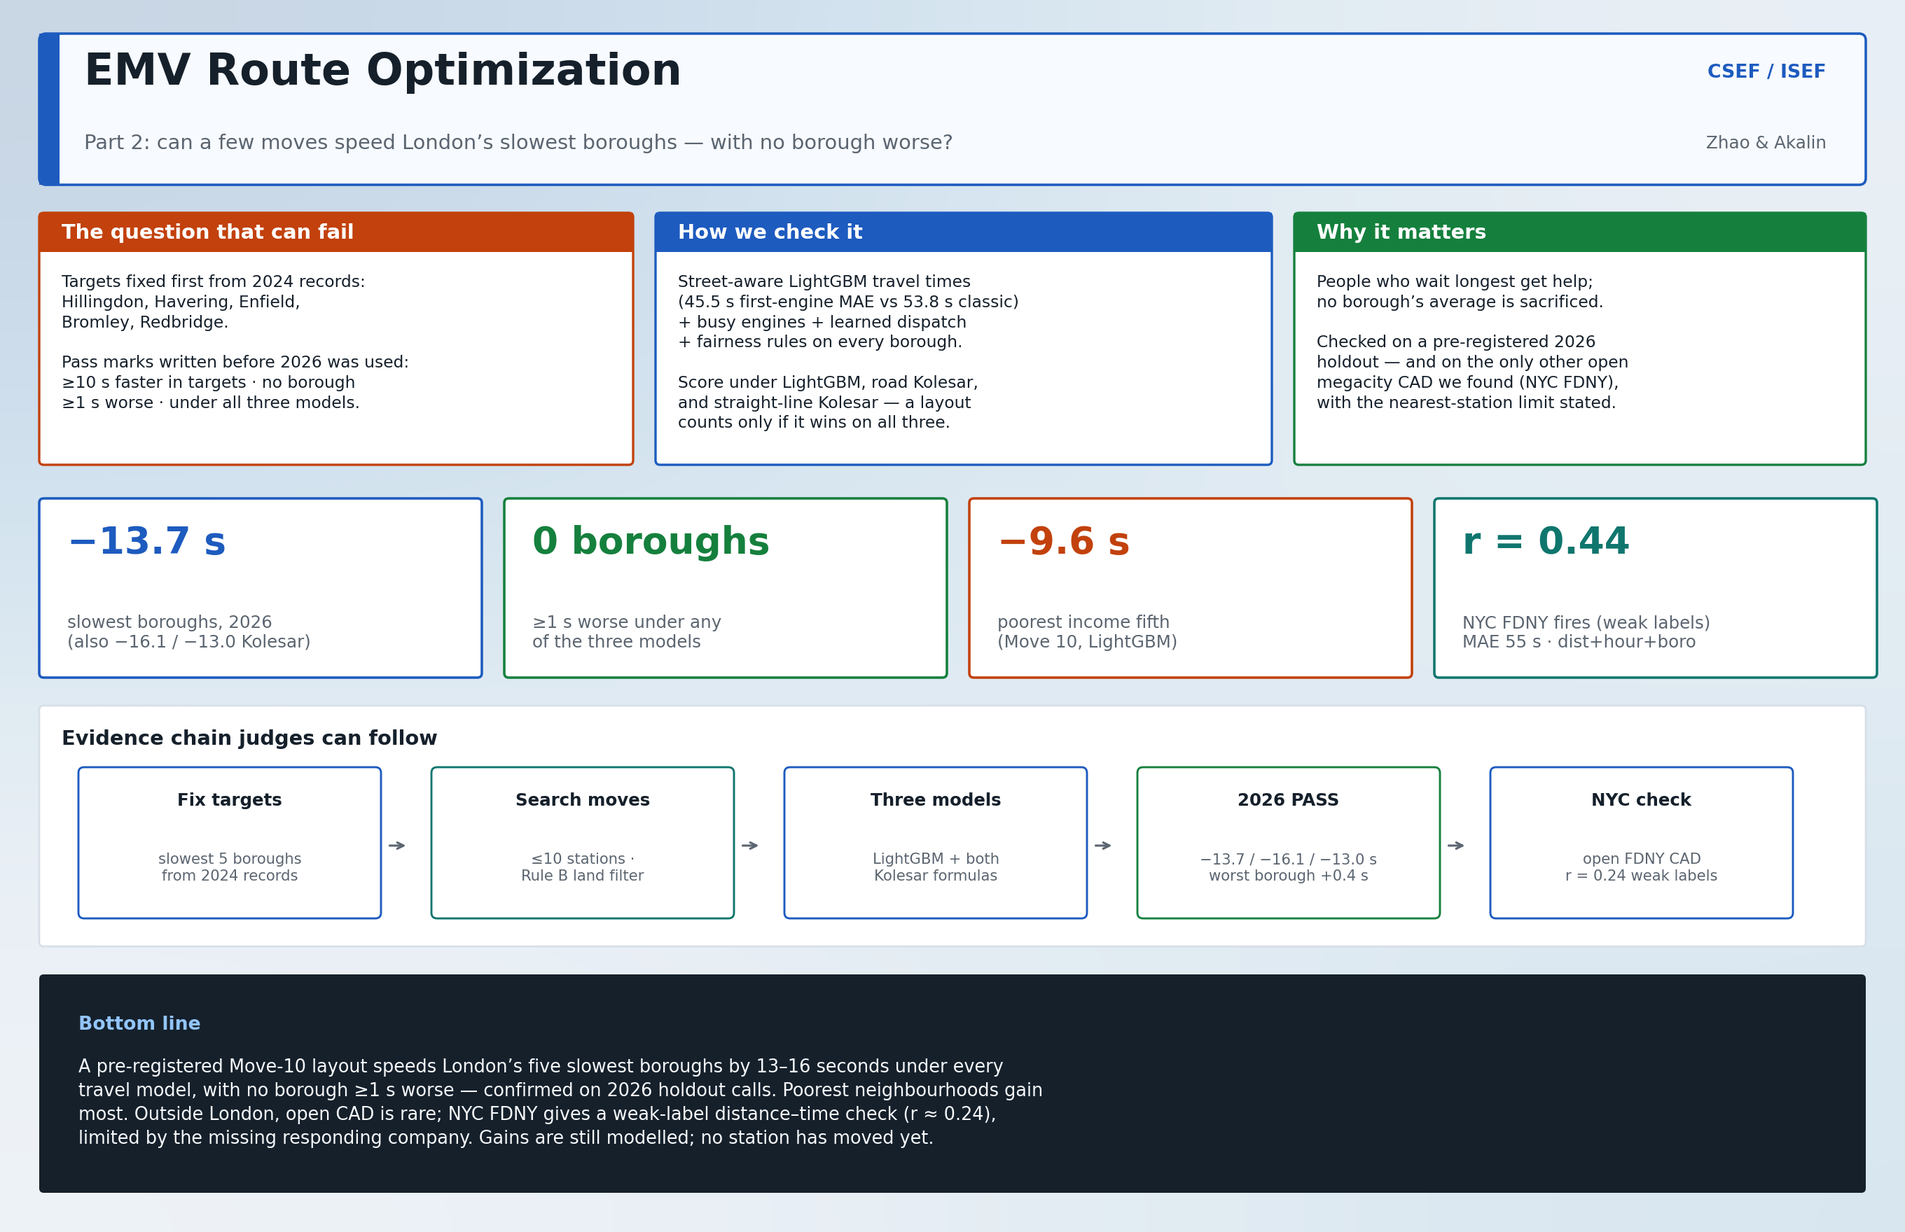
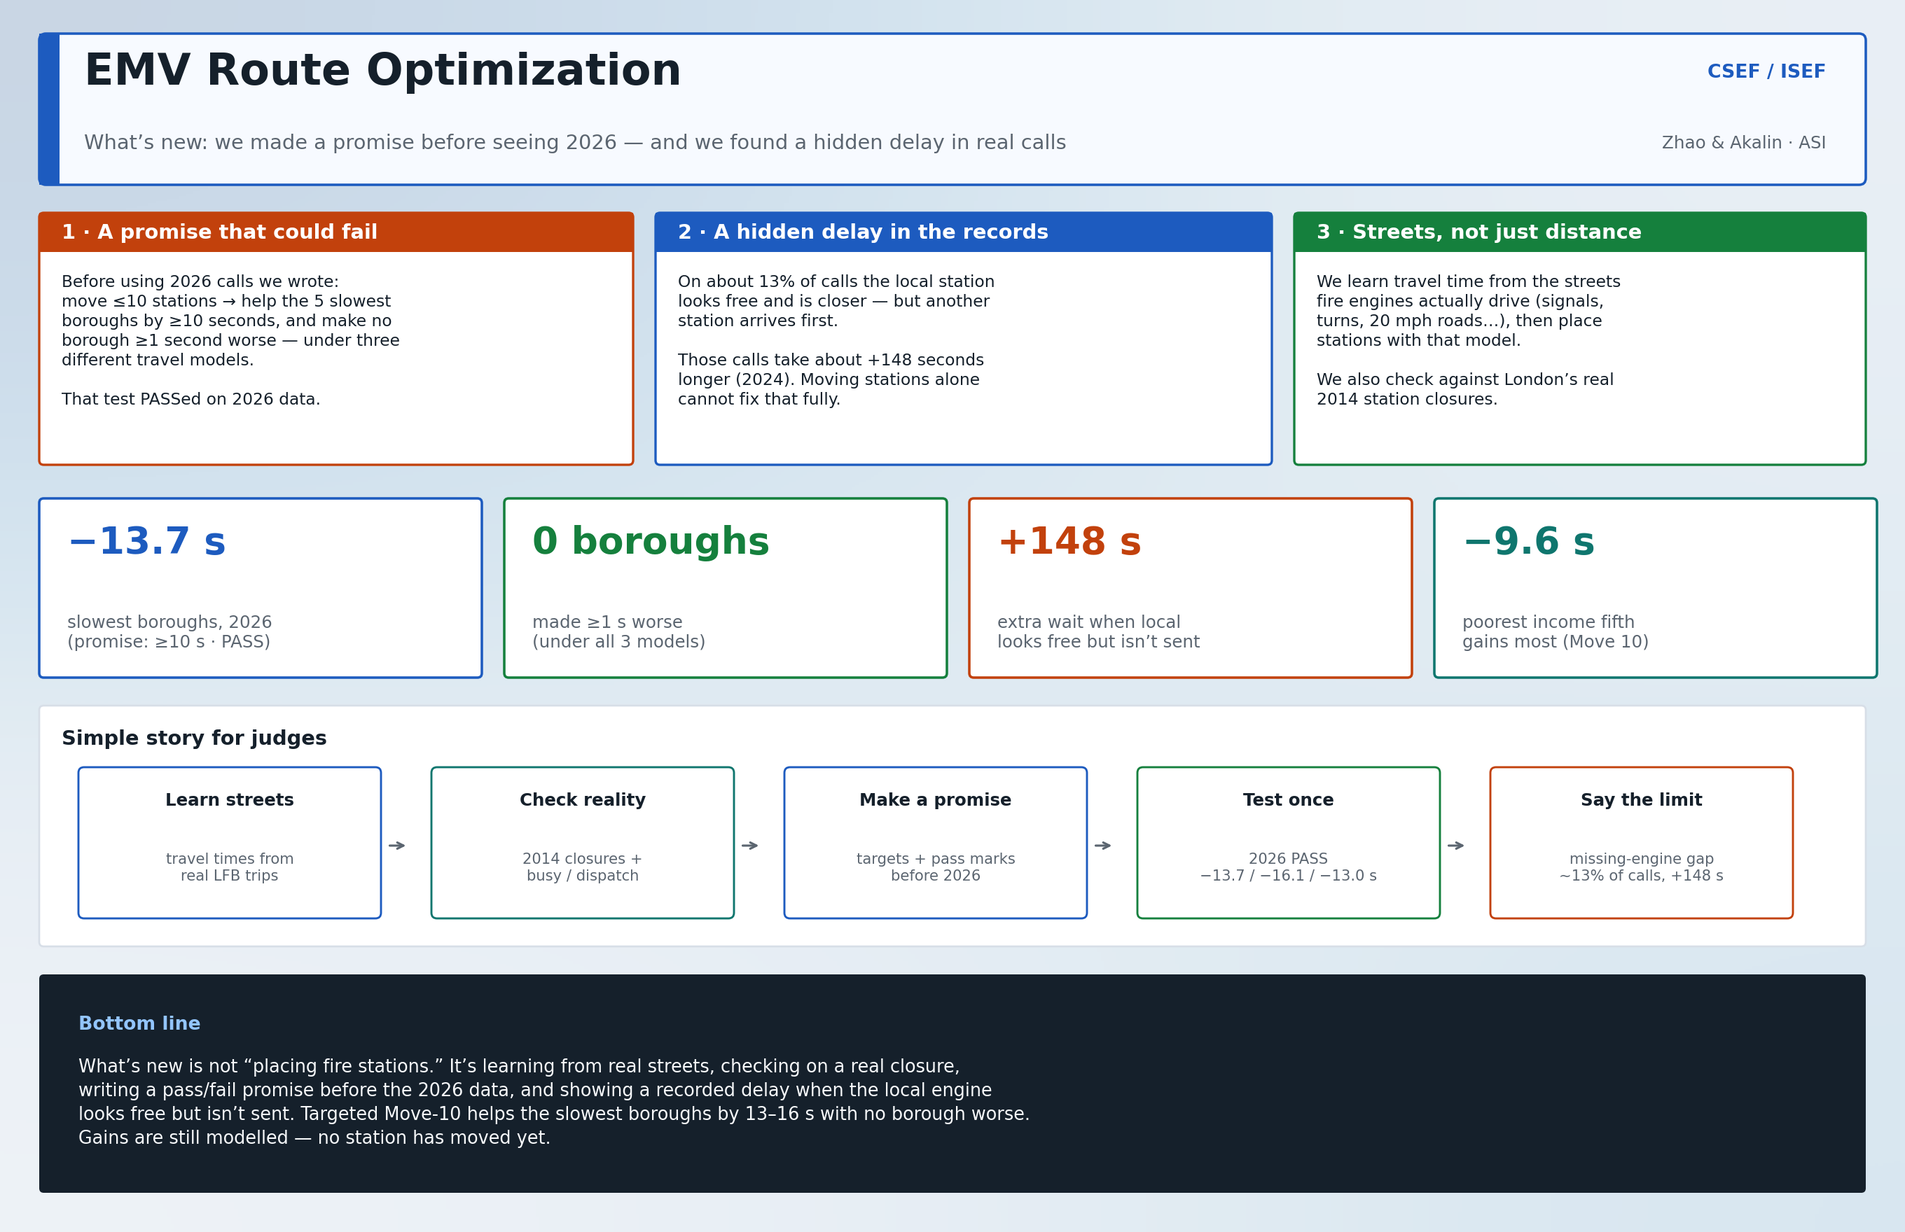
more novel

diff --git a/scripts/build_project_infographic.py b/scripts/build_project_infographic.py
@@ -1,10 +1,14 @@
 #!/usr/bin/env python3
-"""Project significance infographic for the ISEF final-figures pack.
+"""Project significance + novelty infographic for the ISEF final-figures pack.
 
-Leads with Part 2 (slowest boroughs faster, none worse — 2026 PASS), equity,
-and the NYC FDNY weak-label external check. Method MAE stays as support.
+Leads with what is easy to defend as new:
+  1) a promise written before 2026 that then PASSed
+  2) the recorded “missing local engine” delay
+Part 2 savings and equity stay as proof. NYC is a small external note.
 
 Writes ``data/figures/final/14_project_significance.png``.
+Also writes ``data/figures/final/15_what_is_new.png`` (plain-English novelty).
+
 Does not modify figures 01–10.
 
 Run:  PYTHONPATH=src .venv/bin/python scripts/build_project_infographic.py
@@ -12,7 +16,6 @@ Run:  PYTHONPATH=src .venv/bin/python scripts/build_project_infographic.py
 
 from __future__ import annotations
 
-import json
 from pathlib import Path
 
 import matplotlib
@@ -23,7 +26,7 @@ from matplotlib.patches import FancyBboxPatch, Rectangle  # noqa: E402
 
 ROOT = Path(__file__).resolve().parents[1]
 OUT = ROOT / "data" / "figures" / "final" / "14_project_significance.png"
-NYC = ROOT / "data" / "figures" / "validation" / "nyc_fdny" / "summary.json"
+OUT_NEW = ROOT / "data" / "figures" / "final" / "15_what_is_new.png"
 
 INK = "#15202b"
 MUTED = "#5b6570"
@@ -55,17 +58,7 @@ def _bar(ax, x, y, w, h, color):
     ax.add_patch(Rectangle((x, y), w, h, facecolor=color, edgecolor="none", clip_on=False))
 
 
-def _nyc_tile() -> tuple[str, str]:
-    if NYC.exists():
-        h = json.loads(NYC.read_text()).get("headline") or {}
-        mae = h.get("nyc_refit_mae_s")
-        corr = h.get("nyc_refit_corr")
-        if mae is not None and corr is not None:
-            return (f"r = {corr:.2f}", f"NYC FDNY fires (weak labels)\nMAE {mae:.0f} s · dist+hour+boro")
-    return ("External", "NYC FDNY open CAD\nweak-label check")
-
-
-def main() -> int:
+def build_significance() -> None:
     fig = plt.figure(figsize=(17, 11), dpi=160, facecolor=BG)
     ax = fig.add_axes([0, 0, 1, 1])
     ax.set_xlim(0, 17)
@@ -84,95 +77,84 @@ def main() -> int:
         zorder=0,
     )
 
-    # Header
     _panel(ax, 0.35, 9.35, 16.3, 1.35, ec=BLUE, fc="#f7faff", lw=1.6, rs=0.06)
     _bar(ax, 0.35, 9.35, 0.18, 1.35, BLUE)
-    ax.text(
-        0.75,
-        10.35,
-        "EMV Route Optimization",
-        fontsize=28,
-        fontweight="bold",
-        color=INK,
-        va="center",
-    )
+    ax.text(0.75, 10.35, "EMV Route Optimization", fontsize=28, fontweight="bold", color=INK, va="center")
     ax.text(
         0.75,
         9.72,
-        "Part 2: can a few moves speed London’s slowest boroughs — with no borough worse?",
+        "What’s new: we made a promise before seeing 2026 — and we found a hidden delay in real calls",
         fontsize=13,
         color=MUTED,
         va="center",
     )
     ax.text(16.3, 10.35, "CSEF / ISEF", fontsize=12, fontweight="bold", color=BLUE, ha="right", va="center")
-    ax.text(16.3, 9.72, "Zhao & Akalin", fontsize=11, color=MUTED, ha="right", va="center")
+    ax.text(16.3, 9.72, "Zhao & Akalin · ASI", fontsize=11, color=MUTED, ha="right", va="center")
 
-    # Three story panels
+    # Three novelty panels (plain English)
     _panel(ax, 0.35, 6.85, 5.3, 2.25, ec=ORANGE, lw=1.5)
     _bar(ax, 0.35, 8.75, 5.3, 0.35, ORANGE)
-    ax.text(0.55, 8.92, "The question that can fail", fontsize=13, fontweight="bold", color="white", va="center")
+    ax.text(0.55, 8.92, "1 · A promise that could fail", fontsize=13, fontweight="bold", color="white", va="center")
     ax.text(
         0.55,
         8.55,
-        "Targets fixed first from 2024 records:\n"
-        "Hillingdon, Havering, Enfield,\n"
-        "Bromley, Redbridge.\n"
+        "Before using 2026 calls we wrote:\n"
+        "move ≤10 stations → help the 5 slowest\n"
+        "boroughs by ≥10 seconds, and make no\n"
+        "borough ≥1 second worse — under three\n"
+        "different travel models.\n"
         "\n"
-        "Pass marks written before 2026 was used:\n"
-        "≥10 s faster in targets · no borough\n"
-        "≥1 s worse · under all three models.",
+        "That test PASSed on 2026 data.",
         fontsize=10.5,
         color=INK,
         va="top",
-        linespacing=1.32,
+        linespacing=1.28,
     )
 
     _panel(ax, 5.85, 6.85, 5.5, 2.25, ec=BLUE, lw=1.5)
     _bar(ax, 5.85, 8.75, 5.5, 0.35, BLUE)
-    ax.text(6.05, 8.92, "How we check it", fontsize=13, fontweight="bold", color="white", va="center")
+    ax.text(6.05, 8.92, "2 · A hidden delay in the records", fontsize=13, fontweight="bold", color="white", va="center")
     ax.text(
         6.05,
         8.55,
-        "Street-aware LightGBM travel times\n"
-        "(45.5 s first-engine MAE vs 53.8 s classic)\n"
-        "+ busy engines + learned dispatch\n"
-        "+ fairness rules on every borough.\n"
+        "On about 13% of calls the local station\n"
+        "looks free and is closer — but another\n"
+        "station arrives first.\n"
         "\n"
-        "Score under LightGBM, road Kolesar,\n"
-        "and straight-line Kolesar — a layout\n"
-        "counts only if it wins on all three.",
+        "Those calls take about +148 seconds\n"
+        "longer (2024). Moving stations alone\n"
+        "cannot fix that fully.",
         fontsize=10.5,
         color=INK,
         va="top",
-        linespacing=1.32,
+        linespacing=1.28,
     )
 
     _panel(ax, 11.55, 6.85, 5.1, 2.25, ec=GREEN, lw=1.5)
     _bar(ax, 11.55, 8.75, 5.1, 0.35, GREEN)
-    ax.text(11.75, 8.92, "Why it matters", fontsize=13, fontweight="bold", color="white", va="center")
+    ax.text(11.75, 8.92, "3 · Streets, not just distance", fontsize=13, fontweight="bold", color="white", va="center")
     ax.text(
         11.75,
         8.55,
-        "People who wait longest get help;\n"
-        "no borough’s average is sacrificed.\n"
+        "We learn travel time from the streets\n"
+        "fire engines actually drive (signals,\n"
+        "turns, 20 mph roads…), then place\n"
+        "stations with that model.\n"
         "\n"
-        "Checked on a pre-registered 2026\n"
-        "holdout — and on the only other open\n"
-        "megacity CAD we found (NYC FDNY),\n"
-        "with the nearest-station limit stated.",
+        "We also check against London’s real\n"
+        "2014 station closures.",
         fontsize=10.5,
         color=INK,
         va="top",
-        linespacing=1.32,
+        linespacing=1.28,
     )
 
-    # Metric strip — Part 2 first
-    nyc_label, nyc_sub = _nyc_tile()
+    # Metric strip — promise result + gap + equity
     metrics = [
-        ("−13.7 s", "slowest boroughs, 2026\n(also −16.1 / −13.0 Kolesar)", BLUE),
-        ("0 boroughs", "≥1 s worse under any\nof the three models", GREEN),
-        ("−9.6 s", "poorest income fifth\n(Move 10, LightGBM)", ORANGE),
-        (nyc_label, nyc_sub, TEAL),
+        ("−13.7 s", "slowest boroughs, 2026\n(promise: ≥10 s · PASS)", BLUE),
+        ("0 boroughs", "made ≥1 s worse\n(under all 3 models)", GREEN),
+        ("+148 s", "extra wait when local\nlooks free but isn’t sent", ORANGE),
+        ("−9.6 s", "poorest income fifth\ngains most (Move 10)", TEAL),
     ]
     x0 = 0.35
     for label, sub, color in metrics:
@@ -181,19 +163,18 @@ def main() -> int:
         ax.text(x0 + 0.25, 5.35, sub, fontsize=11, color=MUTED, va="center")
         x0 += 4.15
 
-    # Evidence pipeline
     _panel(ax, 0.35, 2.55, 16.3, 2.15, ec=RULE, lw=1.2)
-    ax.text(0.55, 4.4, "Evidence chain judges can follow", fontsize=13, fontweight="bold", color=INK, va="center")
+    ax.text(0.55, 4.4, "Simple story for judges", fontsize=13, fontweight="bold", color=INK, va="center")
     steps = [
-        ("Fix targets", "slowest 5 boroughs\nfrom 2024 records"),
-        ("Search moves", "≤10 stations ·\nRule B land filter"),
-        ("Three models", "LightGBM + both\nKolesar formulas"),
-        ("2026 PASS", "−13.7 / −16.1 / −13.0 s\nworst borough +0.4 s"),
-        ("NYC check", "open FDNY CAD\nr = 0.24 weak labels"),
+        ("Learn streets", "travel times from\nreal LFB trips"),
+        ("Check reality", "2014 closures +\nbusy / dispatch"),
+        ("Make a promise", "targets + pass marks\nbefore 2026"),
+        ("Test once", "2026 PASS\n−13.7 / −16.1 / −13.0 s"),
+        ("Say the limit", "missing-engine gap\n~13% of calls, +148 s"),
     ]
     sx = 0.7
     for i, (title, body) in enumerate(steps):
-        ec = GREEN if title == "2026 PASS" else (BLUE if i % 2 == 0 else TEAL)
+        ec = GREEN if "PASS" in body or title == "Test once" else (ORANGE if i == 4 else (BLUE if i % 2 == 0 else TEAL))
         _panel(ax, sx, 2.8, 2.7, 1.35, ec=ec, lw=1.3, rs=0.05)
         ax.text(sx + 1.35, 3.85, title, fontsize=11, fontweight="bold", color=INK, ha="center", va="center")
         ax.text(sx + 1.35, 3.25, body, fontsize=9.5, color=MUTED, ha="center", va="center")
@@ -206,16 +187,15 @@ def main() -> int:
             )
         sx += 3.15
 
-    # Bottom line
     _panel(ax, 0.35, 0.35, 16.3, 1.95, ec=INK, fc="#15202b", lw=0)
     ax.text(0.7, 1.85, "Bottom line", fontsize=12, fontweight="bold", color="#93c5fd", va="center")
     ax.text(
         0.7,
         1.15,
-        "A pre-registered Move-10 layout speeds London’s five slowest boroughs by 13–16 seconds under every\n"
-        "travel model, with no borough ≥1 s worse — confirmed on 2026 holdout calls. Poorest neighbourhoods gain\n"
-        "most. Outside London, open CAD is rare; NYC FDNY gives a weak-label distance–time check (r ≈ 0.24),\n"
-        "limited by the missing responding company. Gains are still modelled; no station has moved yet.",
+        "What’s new is not “placing fire stations.” It’s learning from real streets, checking on a real closure,\n"
+        "writing a pass/fail promise before the 2026 data, and showing a recorded delay when the local engine\n"
+        "looks free but isn’t sent. Targeted Move-10 helps the slowest boroughs by 13–16 s with no borough worse.\n"
+        "Gains are still modelled — no station has moved yet.",
         fontsize=11.5,
         color="#f8fafc",
         va="center",
@@ -226,6 +206,63 @@ def main() -> int:
     fig.savefig(OUT, dpi=160, facecolor=fig.get_facecolor())
     plt.close(fig)
     print("wrote", OUT)
+
+
+def build_what_is_new() -> None:
+    """One-page plain-English novelty card for the board."""
+    fig = plt.figure(figsize=(11, 8.5), dpi=160, facecolor=BG)
+    ax = fig.add_axes([0, 0, 1, 1])
+    ax.set_xlim(0, 11)
+    ax.set_ylim(0, 8.5)
+    ax.set_axis_off()
+
+    _panel(ax, 0.35, 7.35, 10.3, 0.85, ec=BLUE, fc="#f7faff", lw=1.6)
+    ax.text(0.55, 7.9, "What is new about this project?", fontsize=20, fontweight="bold", color=INK, va="center")
+    ax.text(0.55, 7.55, "Say this in the interview (plain words)", fontsize=11, color=MUTED, va="center")
+
+    items = [
+        (
+            ORANGE,
+            "We made a bet before looking",
+            "We wrote the target boroughs and the pass marks first, then ran 2026 once.\n"
+            "It passed: about 13–16 seconds faster in the slowest boroughs, no borough ≥1 s worse.",
+        ),
+        (
+            BLUE,
+            "We found a hidden wait in real calls",
+            "About 13% of the time the local station looks free and closer, but another station arrives first.\n"
+            "Those calls are roughly 2½ minutes slower (+148 s). Moving stations cannot fix all of that.",
+        ),
+        (
+            GREEN,
+            "We use streets, then check the past",
+            "Travel times come from street traits on real fire trips — not distance alone.\n"
+            "We also check against London’s real 2014 station closures and who really gets sent.",
+        ),
+        (
+            TEAL,
+            "What is NOT the new part",
+            "Placing stations on a map is old. A slightly better error score alone is not the story.\n"
+            "The story is: promise → test → limit we found in the records.",
+        ),
+    ]
+    y = 6.35
+    for color, title, body in items:
+        _panel(ax, 0.35, y - 1.15, 10.3, 1.25, ec=color, lw=1.4)
+        _bar(ax, 0.35, y - 1.15, 0.14, 1.25, color)
+        ax.text(0.7, y - 0.15, title, fontsize=13, fontweight="bold", color=INK, va="center")
+        ax.text(0.7, y - 0.7, body, fontsize=11, color=MUTED, va="center", linespacing=1.35)
+        y -= 1.45
+
+    OUT_NEW.parent.mkdir(parents=True, exist_ok=True)
+    fig.savefig(OUT_NEW, dpi=160, facecolor=fig.get_facecolor())
+    plt.close(fig)
+    print("wrote", OUT_NEW)
+
+
+def main() -> int:
+    build_significance()
+    build_what_is_new()
     return 0
 
 

diff --git a/docs/paper_filled.md b/docs/paper_filled.md
@@ -6,7 +6,7 @@
 Faster Help for London's Slowest Boroughs: Relocating Fire Stations with Street-Learned Travel Times
 Authors: Ricky Zhao and Sarp Akalin (ASI)
 Abstract
-Emergency response times are critical for life preservation and property protection. However, generic distance-based models for positioning fire stations fail to account for the true dynamics of urban street networks. This paper investigates whether relocating a limited number of fire stations can significantly decrease response times in London's slowest boroughs (Hillingdon, Havering, Enfield, Bromley, Redbridge) without delaying responses in other areas. We replaced traditional parametric travel-time formulas (Kolesar, 1975) with a LightGBM machine-learning model trained on real London Fire Brigade (LFB) historical trips, which learns directly from street characteristics (e.g., lanes, traffic signals, one-way systems). Our model achieved a first-engine home-station Mean Absolute Error (MAE) of 45.5 s (compared to 53.8 s using road-distance Kolesar). By applying this model to a maximal covering optimization framework, our simulated targeted 10-station relocation ("Targeted Move-10") reduced response times in target boroughs by up to 16.1 s while ensuring no single borough worsened by more than 1 second (worst +0.4 s). A citywide "Move-10" relocation also demonstrated substantial equity benefits, with the poorest income fifth gaining approximately 9.6 s in response time. These modeled gains demonstrate that street-aware travel time modeling can unlock equitable, zero-harm efficiency improvements in urban emergency deployment.
+What is new in this work is not station placement itself, but three linked steps: (1) travel times learned from street traits on real London Fire Brigade trips rather than distance alone; (2) a pass/fail promise written before any 2026 calls were used; and (3) a recorded delay when the local engine looks free but another station arrives first. We ask whether relocating a few stations can speed London's five slowest boroughs (Hillingdon, Havering, Enfield, Bromley, Redbridge) without making any borough slower. A LightGBM model reaches 45.5 s first-engine MAE against 53.8 s for road-distance Kolesar (1975). On the pre-registered 2026 test, Targeted Move-10 cut target-borough times by −13.7 / −16.1 / −13.0 s under three scorers, with no borough ≥1 s worse (worst +0.4 s). Separately, on about 13% of 2024 calls the local station looks free and closer yet is not first — those calls are about +148 s slower, a limit that moving stations alone cannot fully remove. Gains remain modelled; no station has moved yet.
 Introduction
 Why time is wasted
 In an emergency fire or medical incident, every second wasted navigating congested or poorly structured road networks increases the likelihood of severe casualty or structural loss. Traditional methods of dispatch and station placement often assume uniform travel speeds or rely heavily on straight-line and basic road network distances. However, fire engines responding with lights and sirens are disproportionately affected by hyper-local street characteristics such as the presence of bus lanes, traffic calming measures, turn restrictions, and lane capacity.

diff --git a/docs/novelty_board.md b/docs/novelty_board.md
@@ -1,0 +1,31 @@
+# What is new? (board / interview card)
+
+Use plain words. Do **not** lead with “we invented fire-station placement.”
+
+## One-sentence novelty
+
+We learn how London’s streets slow fire engines, check that on a real station closure, write a pass/fail promise *before* seeing 2026, and also show a recorded delay when the local engine looks free but isn’t sent.
+
+## Three easy points to say
+
+1. **Promise first, then test**  
+   Targets and pass marks were fixed before 2026. Targeted Move-10 PASSed: about **13–16 s** faster in the five slowest boroughs, **no borough ≥1 s worse**.
+
+2. **Hidden delay in the records**  
+   On about **13%** of calls the local station looks free and closer, but another arrives first — about **+148 s** slower. Moving stations alone cannot fix all of that.
+
+3. **Streets + a real closure**  
+   Travel times use street traits from real LFB trips (not distance alone), and we check against the **2014** closures with a learned dispatch model.
+
+## What not to claim as the new part
+
+- “Putting stations on a map” (old OR literature)
+- “Our MAE is a few seconds better” as the whole story
+- NYC open data as full proof (it doesn’t name which firehouse responded)
+
+## Figures
+
+- `data/figures/final/14_project_significance.png` — promise + gap + results  
+- `data/figures/final/15_what_is_new.png` — interview one-pager  
+
+Regenerate: `PYTHONPATH=src .venv/bin/python scripts/build_project_infographic.py`

diff --git a/docs/abstract.md b/docs/abstract.md
@@ -30,8 +30,12 @@ Small, targeted relocations can give the worst-served areas a clear gain with ev
 
 **Keywords:** fire station location; emergency response equity; travel time; LightGBM; London Fire Brigade
 
-**One-sentence pitch:** We learn how London's streets slow fire engines, then move a few stations so the boroughs that wait
-longest get 13-16 s faster help on average (25-36 s in Havering and Redbridge) while no borough gets slower.
+**One-sentence pitch:** We learn how London's streets slow fire engines, write a pass/fail promise before seeing 2026, and
+show that moving a few stations can give the slowest boroughs 13-16 s faster help with no borough worse — while also
+finding a recorded ~2½-minute delay when the local engine looks free but isn't sent.
+
+**Novelty (board):** promise-first 2026 PASS + missing-engine gap (+148 s on ~13% of calls) + street-learned times checked
+on the 2014 closures. Details: `docs/novelty_board.md`.
 
 ---
 

diff --git a/data/figures/final/INDEX.md b/data/figures/final/INDEX.md
@@ -18,7 +18,8 @@ Ten figures that tell the whole project. Open **01 → 10** in order.
 
 Also `method_diagram.png`: how the project works, from data to validation (`scripts/build_method_diagram.py`).
 
-| 14 | `14_project_significance.png` | **Significance:** Part 2 2026 PASS (−13.7 s slowest boroughs, 0 boroughs worse), equity (−9.6 s poorest fifth), NYC FDNY weak-label check (r ≈ 0.44 on fires). |
+| 14 | `14_project_significance.png` | **Significance / novelty:** pre-registered 2026 promise (PASS), missing-engine gap (+148 s), street model + closure check. |
+| 15 | `15_what_is_new.png` | **Interview card:** plain-English “what is new” (promise · hidden delay · streets). |
 
 Regenerate:
 

diff --git a/data/figures/final/README.md b/data/figures/final/README.md
@@ -2,4 +2,4 @@
 
 See [INDEX.md](INDEX.md). Start with **00_roadmap.png**, then **01…10**.
 
-**14_project_significance.png** is the one-page significance infographic (Part 2 2026 PASS + equity + NYC weak-label check). Regenerate with `scripts/build_project_infographic.py`.
+**14_project_significance.png** and **15_what_is_new.png** are the significance / novelty board cards (pre-registered 2026 promise + missing-engine gap). Regenerate with `scripts/build_project_infographic.py`. See also `docs/novelty_board.md`.
